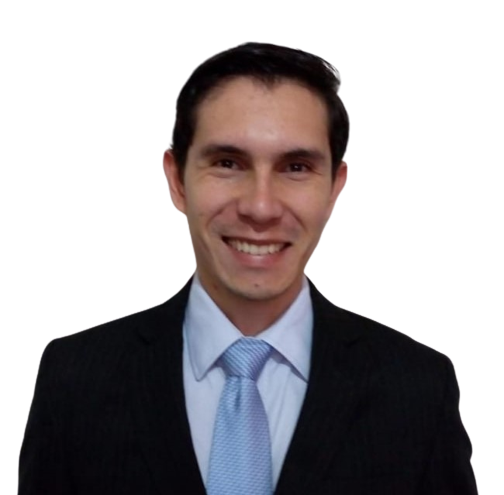
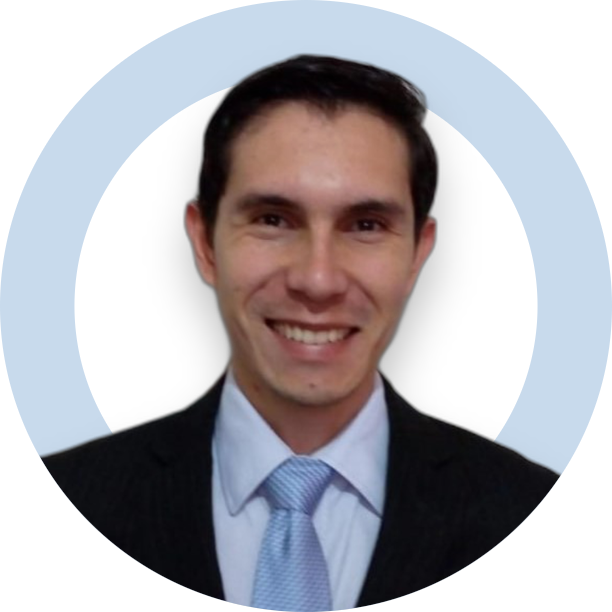
up

diff --git a/index.html b/index.html
@@ -74,7 +74,7 @@
     <!-- HEADER NAV -->
 
 
-    <div class="my-16 py-16 h-screen">
+    <!-- <div class="my-16 py-16 h-screen">
       <div class="mx-auto  w-full md:w-1/2 lg:w-1/4 px-3 pb-3" x-data="{ open: false, color: false }"
         @keydown.escape="open = false" @click.away="open = false">
         <div
@@ -158,7 +158,7 @@
           </div>
         </div>
       </div>
-    </div>
+    </div> -->
 
 
 
@@ -170,19 +170,25 @@
 
     <!-- ABOUT ME -->
 
-    <div class="mx-auto p-8">
+    <div class="mx-auto sm:p-8">
       <!-- This example requires Tailwind CSS v2.0+ -->
       <div class="overflow-hidden bg-white shadow sm:rounded-lg">
 
         <div class="grid grid-flow-col gap-4">
-          <div class="row-span-3">
-            <div class=" pl-12 py-3">
-              <img class="w-1/2 h-1/2 sm:w-44 h-100 rounded-lg bg-gray-100" src="images/renier1989.png" alt="">
+          
+          <div class="row-span-3 ">
+            <div class=" pl-12 py-3 hidden md:flex">
+              <img class="w-1/2 h-1/2 sm:w-44 h-100 rounded-lg " src="images/renier1989.png" alt="">
               <!-- <img class="w-1/2 h-1/2 sm:w-44 h-100 rounded-lg" src="https://fenacrep.net/images/perfil/002232985.jpg" alt=""> -->
+              
             </div>
           </div>
+
           <div class="col-span-3">
             <div class="px-4 py-5 sm:px-6">
+              <div class="md:hidden mb-4">
+                <img class=" mx-auto w-1/2 h-1/2 sm:w-44 h-100 rounded-lg " src="images/renier1989.png" alt="">
+              </div>
               <h3 class="text-5xl font-medium leading-6 text-gray-700">About me</h3>
               <p class="mt-4 max-w-7xl text-sm text-gray-500">Lorem ipsum dolor sit amet consectetur adipisicing elit.
                 Repellendus, vel? Eligendi, ratione? Perferendis quae iusto odio aperiam fugit suscipit aliquid harum
@@ -197,7 +203,7 @@
         </div>
 
         <div class="border-t border-gray-200">
-          <div class="grid grid-cols-2">
+          <div class="md:grid md:grid-cols-2">
             <div class="px-5 py-3">
               <div class="text-gray-500">Full Name</div>
               <div class="font-medium text-gray-700">Renier Josue Vargas Mejias</div>
